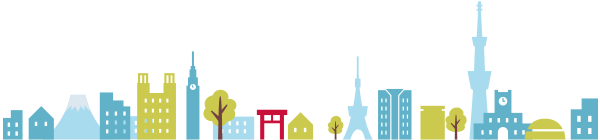
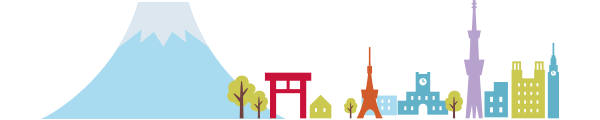
refs #UMA-265 #UMA-209 #UMA-266 ヘッダーデザイン追加

diff --git a/pycon/static/less/site.less b/pycon/static/less/site.less
@@ -33,7 +33,7 @@
 
 @blueLight:   #55b6d9;
 @blueDark:    #2871ba;
-@blueSky:     #ade2f5;
+@blueSky:     #d2f6ff;
 
 @greenLight:  #76c34d;
 // #62a83d
@@ -284,7 +284,7 @@ textarea[class*="span"] {
 }
 
 header.main {
-  .box-shadow(0 0 20px rgba(0,0,0,0.15));
+  // .box-shadow(0 0 20px rgba(0,0,0,0.15));
   border-bottom: 1px solid rgba(0,0,0,0.09);
   z-index: 99;
   position: relative;
@@ -624,7 +624,7 @@ header.main {
       .navbar-inner {
         background: transparent;
         .box-shadow(none);
-        margin: 42px 0 0 40px;
+        margin: 42px 0 0 60px;
         border: none;
       }
 
@@ -711,7 +711,7 @@ header.main {
       top: 5px;
       left: 0;
       width: 365px;
-      height: 65px;
+      height: 71px;
       background:url(../img/pycon2014-logo_sub.png) no-repeat 0 0;
       text-indent: -9999px;
     }
@@ -810,7 +810,7 @@ body.home {
       li {
         padding: 10px 0;
         display: inline-block;
-        background-color: lighten(@blueSky, 10%);
+        background-color: @blueSky;
         .border-radius(8px);
         border: 4px solid @white;
         line-height: 24px;
@@ -823,6 +823,15 @@ body.home {
     position: relative;
     // background-color: @blueSky;
     height: 225px;
+    background: #ffffff; /* Old browsers */
+    background: -moz-linear-gradient(top,  #ffffff 13%, #edfaff 52%, #cbeced 100%); /* FF3.6+ */
+    background: -webkit-gradient(linear, left top, left bottom, color-stop(13%,#ffffff), color-stop(52%,#edfaff), color-stop(100%,#cbeced)); /* Chrome,Safari4+ */
+    background: -webkit-linear-gradient(top,  #ffffff 13%,#edfaff 52%,#cbeced 100%); /* Chrome10+,Safari5.1+ */
+    background: -o-linear-gradient(top,  #ffffff 13%,#edfaff 52%,#cbeced 100%); /* Opera 11.10+ */
+    background: -ms-linear-gradient(top,  #ffffff 13%,#edfaff 52%,#cbeced 100%); /* IE10+ */
+    background: linear-gradient(to bottom,  #ffffff 13%,#edfaff 52%,#cbeced 100%); /* W3C */
+    filter: progid:DXImageTransform.Microsoft.gradient( startColorstr='#ffffff', endColorstr='#cbeced',GradientType=0 ); /* IE6-9 */
+
 
     .tokyo {
       position: relative;
@@ -1163,7 +1172,7 @@ body.cms-page {
   Overrides styles for devices with a
   device-pixel-ratio of 2+, such as iPhone 4.
 =========================================== */
-
+// TODO ★1>2
 @media
   only screen and (-webkit-min-device-pixel-ratio: 2),
   only screen and (min-device-pixel-ratio: 2) {
@@ -1177,7 +1186,8 @@ body.cms-page {
 
   body.home .sky .logo {
     background-image: url(../img/pycon2014-logo@2x.png);
-    background-size: 522px 105px;
+    background-size: 522px 380px;
+    height: 380px;
   }
   .montreal {
     background: url("../img/montreal@2x.png") no-repeat scroll 0 0 transparent;
